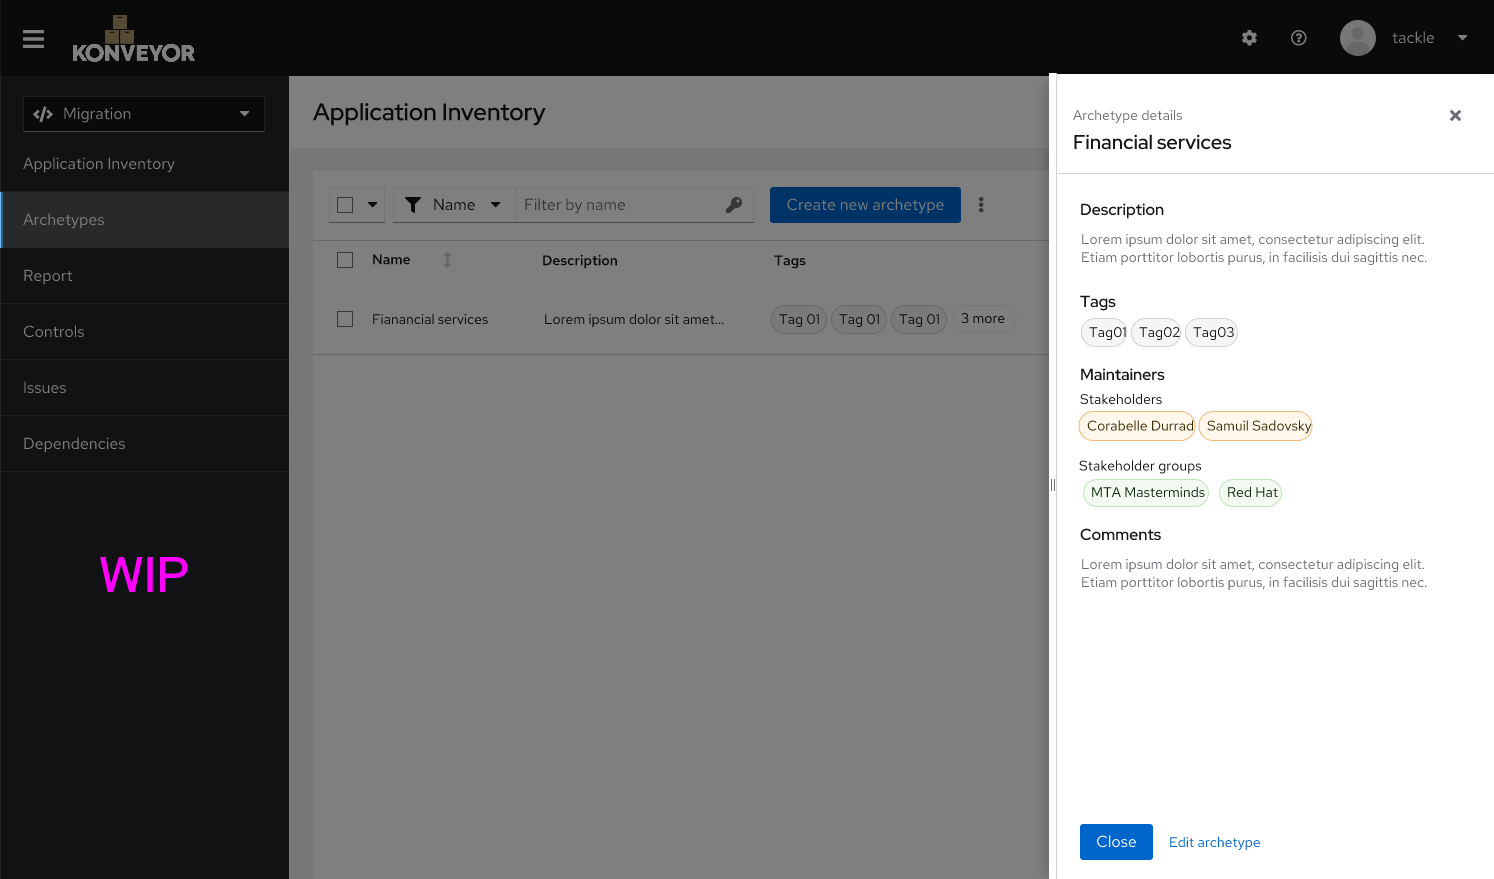
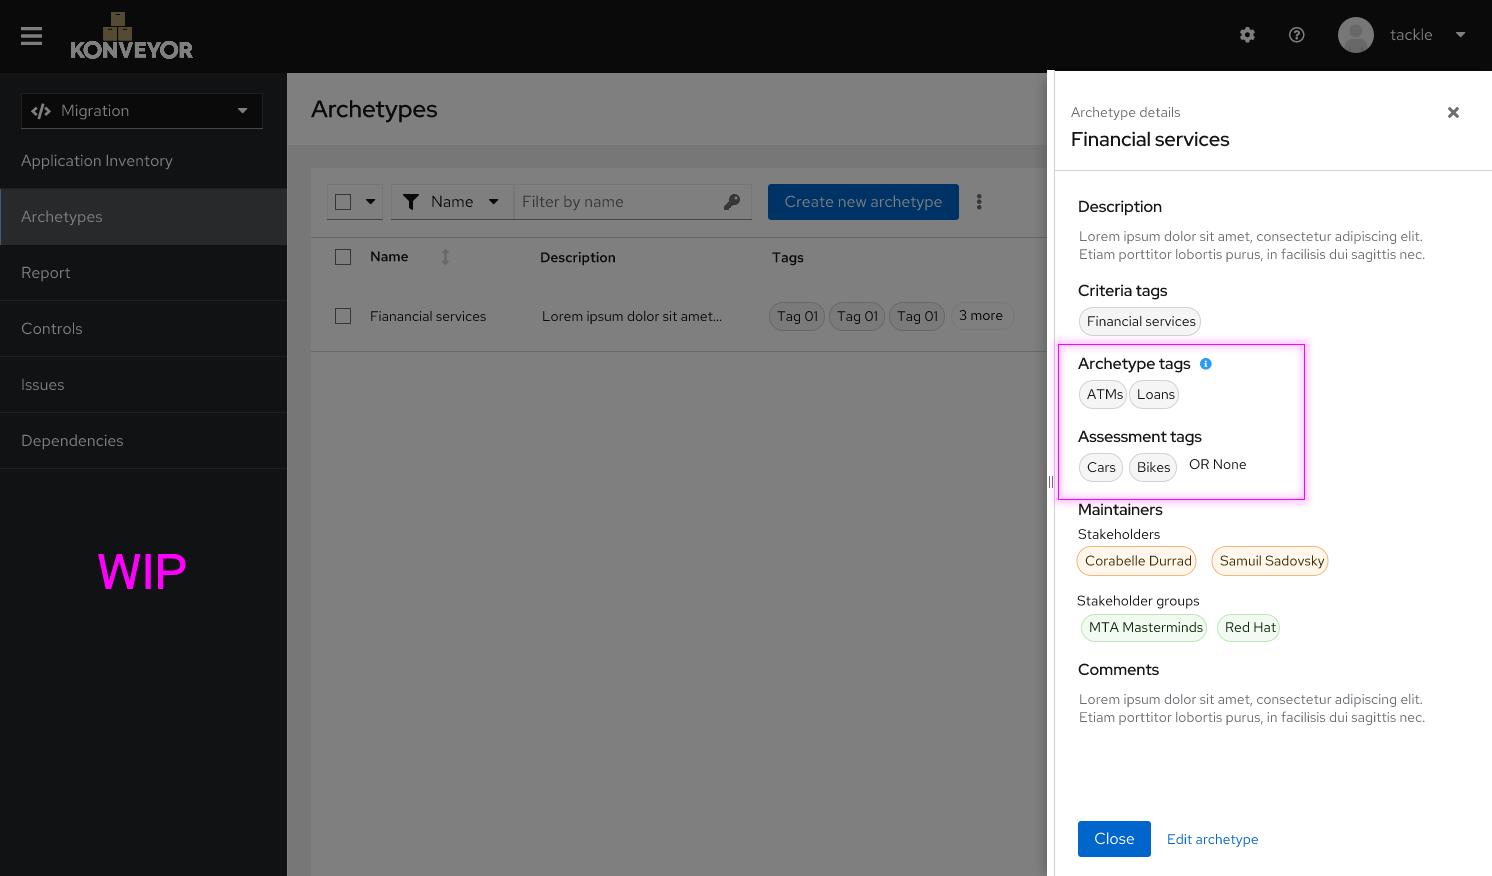
Updated review, reports, archetypes and questionnaire

diff --git a/enhancements/assessment-module/README.md b/enhancements/assessment-module/README.md
@@ -12,7 +12,7 @@ approvers:
   - "@ibolton336"
   - "@jwmatthews"
 creation-date: 2023-08-02
-last-updated: 2023-08-04
+last-updated: 2023-08-30
 status: provisional
 see-also:
   -   
@@ -66,7 +66,7 @@ This enhancement aims to provide the following solution to these problems:
 
 ### Non-Goals
 
-- Have a fully UI supported way to author questionnaires.
+- Have a fully UI-supported way to author questionnaires.
 
 ## Proposal
 
@@ -206,11 +206,11 @@ Each row will represent an existing archetype, containing the following informat
 
 - **Name**: Name of the archetype
 - **Description**: Brief description of the archetype
-- **Tags**: The list of tags that define the archetype.
+- **Criteria Tags**: The list of tags that define the archetype.
 - **Maintainers**: List of stakeholders and stakeholder groups that maintain the archetype in the organization. This is metainformation that could be useful to navigate the organization and reach out to key people when more information about an archetype is needed.
-- **Applications**: List of applications that are associated with the archetype. Association happens automatically via a match of the tags that define with the archetype with the ones that are associated with the application.
+- **Applications**: List of applications that are associated with the archetype. Association happens automatically via a match of the criteria tags that define with the archetype with the ones that are associated with the application.
 
-The header of the archetypes table will include filters that include Name, Description, Tags and Maintainers as criteria. Alongside the filtering, a button will be displayed to create a new archetype.
+The header of the archetypes table will include filters that include Name, Description, Criteria Tags and Maintainers as criteria. Alongside the filtering, a button will be displayed to create a new archetype.
 
 Each row will have a menu with the following options:
 
@@ -219,6 +219,13 @@ Each row will have a menu with the following options:
 - **Edit**: Opens a modal window to edit an existing archetype.
 - **Delete**: Deletes the archetype.
 
+Clicking on a row will open a side drawer that will include additional fields:
+
+![Archetypes view](images/archetypes-drawer.png?raw=true "Archetypes view")
+
+- **Archetype Tags**: The list of tags that will be applied to applications that are associated to the archetype in the *Archetype* source.
+- **Assessment Tags**: The list of tags, coming from the assessment of the Archetype via automated tagging, that will be applied to applications that are associated to the archetype in the *Assessment* source.
+
 
 ###### Creating new archetypes
 
@@ -226,11 +233,12 @@ New archetypes can be created by clicking on the *Create new archetype* button a
 
 - **Name**: String
 - **Description**: String (Optional)
-- **Tags**: Dropdown, multi selection. All selected options will be displayed as removable labels.
+- **Criteria Tags**: Dropdown, multi selection. All selected options will be displayed as removable labels.
+- **Archetype Tags**: Dropdown, multi selection. All selected options will be displayed as removable labels.
 - **Stakeholders**: Dropdown, multi selection. All selected options will be displayed as removable labels. (Optional)
 - **Stakeholder group(s)**: Dropdown, multi selection. All selected options will be displayed as removable labels. (Optional)
 
-![New archetype modal](images/archetype-create-filling.png?raw=true "New archetype modal")
+![New archetype modal](images/archetype-create.png?raw=true "New archetype modal")
 
 All dropdown fields will have an autocomplete behavior. Tags appearing in the Tags field will be arranged by their corresponding categories:
 
@@ -242,14 +250,16 @@ Once values are entered in the dropdown, they will be displayed as removable lab
 
 Clicking on "Create archetype" will create the archetype, close the modal and refresh the archetypes view to include the newly created archetype.
 
-**Creating a new archetype should trigger a process to calculate the applications the archetype is associated with.** If the user remains in the Archetype view, it should be automatically refreshed once the process ends to reflect the associated applications.
+**Creating a new archetype should trigger a process to calculate the applications the archetype is associated with based on the Criteria Tags.** If the user remains in the Archetype view, it should be automatically refreshed once the process ends to reflect the associated applications.
+
+>**Note**: Tags from sources Archetype and Assessment will be ignored when calculating the archetype match for applications.
 
 
 ###### Editing archetypes
 
 Existing custom migration targets can be edited by clicking on the kebab at the right side of the corresponding row and selecting the option *Edit*.
 
-This will open a modal window similar to the one used for creating archetypes, but with a *Save* button instead of the *Create archetype* one. **If the list of tags that define the archetype changes, the process to calculate the applications the archetype is associated with should be triggered again**.
+This will open a modal window similar to the one used for creating archetypes, but with a *Save* button instead of the *Create archetype* one. **If the list of Criteria Tags that define the archetype changes, the process to calculate the applications the archetype is associated with should be triggered again**.
 
 ###### Deleting archetypes
 
@@ -345,7 +355,7 @@ It will be possible for the Administrator to get a rendered view of the question
 
 ![Assessment Management](images/assessment-management-view.png?raw=true "Assessment Management")
 
-As in the assessment view from the application inventory, questions are arranged in different sections accessible trough a set of vertical tabs. Each question in a section is represented as an expandable section, which once expanded will display the available answers for that question:
+As in the assessment view from the application inventory, questions are arranged in different sections accessible through a set of vertical tabs. Each question in a section is represented as an expandable section, which once expanded will display the available answers for that question:
 
 ![Assessment Management](images/assessment-management-view-expanded.png?raw=true "Assessment Management")
 
@@ -385,7 +395,7 @@ The YAML syntax for questionnaire definition aims at helping users simplify ques
       - **risk**: *String, limited values: red, yellow, green, unknown. Required*. The risk level the current answer implies.
       - **rationale**: *String. Optional.** An explanation of the rationale behind the answer being considered a risk.
       - **mitigation**: *String. Optional.* An explanation of the potential mitigation strategy for the risk implied by this answer.
-      - **autotag**: *List. Optional.* Defines a list of tags to be automatically applied to the assessed application or archetype if this answer is selected. Each tag is defined by the following:
+      - **autotag**: *List. Optional.* Defines a list of tags to be automatically applied to the assessed application or archetype (as transitive tags) if this answer is selected. Each tag is defined by the following:
         - **category**: *String. Required.* Category of the target tag.
         - **tag**: *String. Required* Tag definition for the target tag.
       - **autoanswer_if_tags_present**: *List. Optional.* Defines a list of tags that will lead to this answer being automatically selected when the application or archetype is assessed. Each tag is defined by the following:
@@ -553,19 +563,34 @@ If no questionnaire has been answered yet, only the *Take* button will be availa
  - *View* will render a read only view of the questionnaire highlighting the selected questions.
  - *Delete* will, upon confirmation, delete the provided answers for a questionnaire and bring it back to the original unanswered state.
 
- As stated before, both applications and archetypes can be assessed. Applications associated with an archetype will *inherit* its assessment. Nevertheless, individual applications that are associated to an archetype can also have a dedicated assessment that overrides the one inherited from the archetype. Clicking on "Assess" for an application that is associated to an archetype will open a confirmation modal to override the inherited assessment:
+ As stated before, both applications and archetypes can be assessed. Applications associated with an archetype will *inherit* its assessment(s). Nevertheless, individual applications that are associated to an archetype can also have a dedicated assessment that overrides the one(s) inherited from the archetype. Clicking on "Assess" for an application that is associated to an archetype will open a confirmation modal to override the inherited assessment:
 
   ![Assessment Process](images/assessment-process-override.png?raw=true "Assessment Process")
 
-Deleting the dedicated assessment of an application associated to an assessed archetype will bring that application back to its previous state of inheriting the archetype assessment.
+Deleting the dedicated assessment of an application associated to an assessed archetype will bring that application back to its previous state of inheriting the archetype assessment(s).
 
 ###### Assessment flow for archetypes
 
 Archetypes will be assessable by clicking on the *Assess* option from the kebab menu from a row in the table from the [archetypes view](#archetypes-main-view). Doing that will lead to the questionnaire list view and kickstart the assessment process in the exact same way described before for applications.
 
-> **Note**: Conditional questions on a questionnaire belonging to the assessment of an archetype will only take into account tags directly associated with the archetype, and will ignore tags coming from applications associated to that archetype.
+> **Note**: Conditional questions on a questionnaire belonging to the assessment of an archetype will only take into account tags directly associated with the archetype in both Criteria and Archetype tags, and will ignore tags coming from applications associated to that archetype.
 
 > **Note**:  Tags in the assessment source of an application coming from the assessment of an associated archetype are transitive. If the application stops being associated to the archetype or the archetype is deleted, the tags will be removed from the application.
+
+###### Assessment questionnaire
+
+The assessment questionnaire displayed to the user to provide answers will remain mostly the same, aside from the fact that visual cues will be included to inform the user about autoanswered questions:
+
+  ![Assessment Process](images/assessment-autoanswer.png?raw=true "Assessment Process")
+
+Aside from the icon, there will be a tooltip explaining why the answer was automatically selected:
+
+*Selected based on tag(s) X associated to archetype/application Y*
+
+The user will be able to change the selection, but the icon will remain on the previously autoselected answer.
+
+
+If the application has tags that would qualify for more than one answer in a question, no answer would be selected, but the icon would be displayed for each potential autoselected answer, with different tooltips explaining the origin of each answer.
 
 #### Changes in the Review process
 
@@ -580,13 +605,15 @@ Archetypes will be assessable by clicking on the *Assess* option from the kebab 
 
 ##### Description
 
-The review flow will stay mostly the same, but now architects should be able to review both archetypes from the *Archetypes* view or individual applications from the **Application inventory* view. As with assessments, applications associated to an archetype that has been reviewed will inherit the review, and it will be possible to override it with a dedicated review as well.
+The review flow will stay mostly the same, but now architects should be able to review both archetypes from the *Archetypes* view or individual applications from the *Application inventory* view. As with assessments, applications associated to an archetype that has been reviewed will inherit the review, and it will be possible to override it with a dedicated review as well.
 
-The Review view will require some small changes (**Mockup missing**):
+The main change in the *Review* view will be related to the way risks are displayed. The *Assessment summary* section will be rearranged to accommodate *Rationale* and *Mitigation strategies* data as expandable rows:
 
-- The Assessment summary table should display risks coming from all the questionnaires and allocate a way to display rationale and mitigation data.
+![Review](images/review-risks.png?raw=true "Review")
 
-#### Changes in the Application Profile view
+Only answers that contain *Rationale* and *Mitigation strategies* data will be displayed as expandable. Risk will be displayed with the same icons used in the questionnaire views instead of the labels that were used before. Filter criteria should now include Category (text), Question (text), Answer (text) and Risk (High, Medium, Low, Unknown).
+
+#### Changes in the Application Inventory view
 
 ##### Related Use Cases
 
@@ -600,11 +627,59 @@ The Review view will require some small changes (**Mockup missing**):
 
 ##### Description
 
-(**Mockup missing**)
+###### Main view
 
-The application profile side drawer will include information about the associated archetypes, if any. Aside from that, a new source called *Assessment* will be available in the Tags tab from the application profile side drawer.
+The *Assess* button in the top menu from the Assessment tab will be removed, and the *Assess* action will be made available as an option in the kebab menu for each row. This will leave the kebab menu with the following options:
 
-> **Note**:  Tags in the assessment source of an application coming from the assessment of an associated archetype are transitive. If the application stops being associated to the archetype or the archetype is deleted, the tags will be removed from the application.
+- **Assess**: Highlight in yellow if the application has any inherited assessments coming from associated archetypes, white background otherwise.
+- **Review**:  Highlight in yellow if the application has any inherited reviews coming from associated archetypes, white background otherwise.
+- **Discard assessment**: Only available if the application has been assessed individually. This will revert back to the inherited assessment(s) if the application is associated with any archetype(s).
+- **Discard review**: Only available if the application has been reviewed individually. This will revert back to the inherited review(s) if the application is associated with any archetype(s).
+- **View assessment**: Only available when the application or any of its associated archetypes have been assessed.
+- **Manage dependencies**: Always white background.
+- **Delete**: Always highlighted in red.
+
+The options *Copy assessment* and *Copy assessment and review* available in previous releases will be removed from the kebab menu, as these actions are no longer available.
+
+###### Side drawer
+
+The application profile side drawer will include the list of associated archetypes in the *Archetypes* field. If no archetypes are associated to the application, the field will display "None".
+
+![Side drawer](images/drawer-multiple-reviews.png?raw=true "Side drawer")
+
+Aside from that, since applications can be associated with multiple archetypes, and those archetypes can potentially have a review for each of them, the *Proposed action*, *Effort estimate*, *Business Criticality* and *Work priority* fields will display the values for each archetype that has been reviewed, adding the name of the corresponding archetype in parenthesis. If the application is only associated with one archetype or if it has been reviewed directly, the name of the archetype won't be rendered alongside the value for each of these fields.
+
+To calculate the aggregated risk level for an application, the following formula, inherited from the previous Pathfinder module, should be applied:
+
+- Any Red means overall risk level is Red.
+- Yellow above 30% means overall risk level is Yellow.
+- Unknown above 20% means overall risk level is Red.
+- Any other percentages mean overall risk level is Green.
+
+**This rule applies both for questionnaires inside an assessment and multiple assessments indirectly associated to an application**. Making these thresholds configurable could be explored in future releases.
+
+**Two new sources will be available in the Tags tab**: *Assessment* and *Archetype*, which will include transitive tags coming from associated archetypes.
+
+> **Note**:  Tags in the **Assessment** and **Archetype** sources of an application coming from an associated archetype are transitive. If the application stops being associated to the archetype or the archetype is deleted, the tags will be removed from the application.
+
+
+###### View Assessment
+
+The *View assessment* view will allow users to browse the answers provided on the different questionnaires that belong to the assessments(s) associated with an application directly or transitively through archetype(s). Clicking on the *View assessment* option in the kebab menu for a given application will navigate away from the inventory view to another view in which the user will see the list of questionnaires available for the assessment for a given archetype in case there are many.
+
+![Assessment View](images/assessment-view-assessment-questionnaires.png?raw=true "Assessment View")
+
+The *Archetype* dropdown at the top will display the list of archetypes associated to the current application. If the application is not associated with any archetype (the application has been assessed individually), this dropdown won't be rendered.
+
+Clicking on the *View* button for any questionnaire will navigate to a different view that renders the questionnaire, highlighting the answers that were provided for each question:
+
+![Assessment View](images/assessment-view-assessment-view.png?raw=true "Assessment View")
+
+Highlighted answers will also include their associated risk level, which won't be displayed for the other choices that hadn't been selected for each question.
+
+The user will be able to filter questions using a search box. Each vertical tab corresponding with categories will highlight the number of matches for the query:
+
+![Assessment View](images/assessment-view-assessment-view-filter.png?raw=true "Assessment View")
 
 #### Changes in the Application Reports view
 
@@ -620,7 +695,32 @@ The application profile side drawer will include information about the associate
 
 ##### Description
 
-TBD
+Some changes will be required in the *Current landscape* and *Identified risks* from the *Reports* view. Firstly, in order to accommodate data from multiple questionnaires, the *Current landscape* section will include a dropdown to select the questionnaire for the data to be displayed, with "All questionnaires" selected by default.
+
+![Reports](images/reports-overview.png?raw=true "Reports")
+
+To calculate the aggregated risk level for an application, the following formula, inherited from the previous Pathfinder module, should be applied:
+
+- Any Red means overall risk level is Red.
+- Yellow above 30% means overall risk level is Yellow.
+- Unknown above 20% means overall risk level is Red.
+- Any other percentages mean overall risk level is Green.
+
+**This rule applies both for questionnaires inside an assessment and multiple assessments indirectly associated to an application**. Making these thresholds configurable could be explored in future releases.
+
+If the user selects a concrete questionnaire, the *risk_messages* data will be displayed below each risk level, and data on the doughnut charts will be updated to reflect the specific values for the selected questionnaire:
+
+![Reports](images/reports-questionnaire-selected.png?raw=true "Reports")
+
+
+The *Identified risks* section will be rearranged to accommodate *Rationale* and *Mitigation strategies* data as expandable rows:
+
+![Reports](images/reports-risks.png?raw=true "Reports")
+
+Only answers that contain *Rationale* and *Mitigation strategies* data will be displayed as expandable. Risk will be displayed with the same icons used in the questionnaire views instead of the labels that were used before. Filter criteria should now include Application (text, multiselect), Category (text), Question (text), Answer (text) and Risk (High, Medium, Low, Unknown).
+
+
+The number of applications displayed in the *Applications* row on the table will be static text and not a link, which could be explored in future releases.
 
 ### Implementation Details/Notes/Constraints
 
